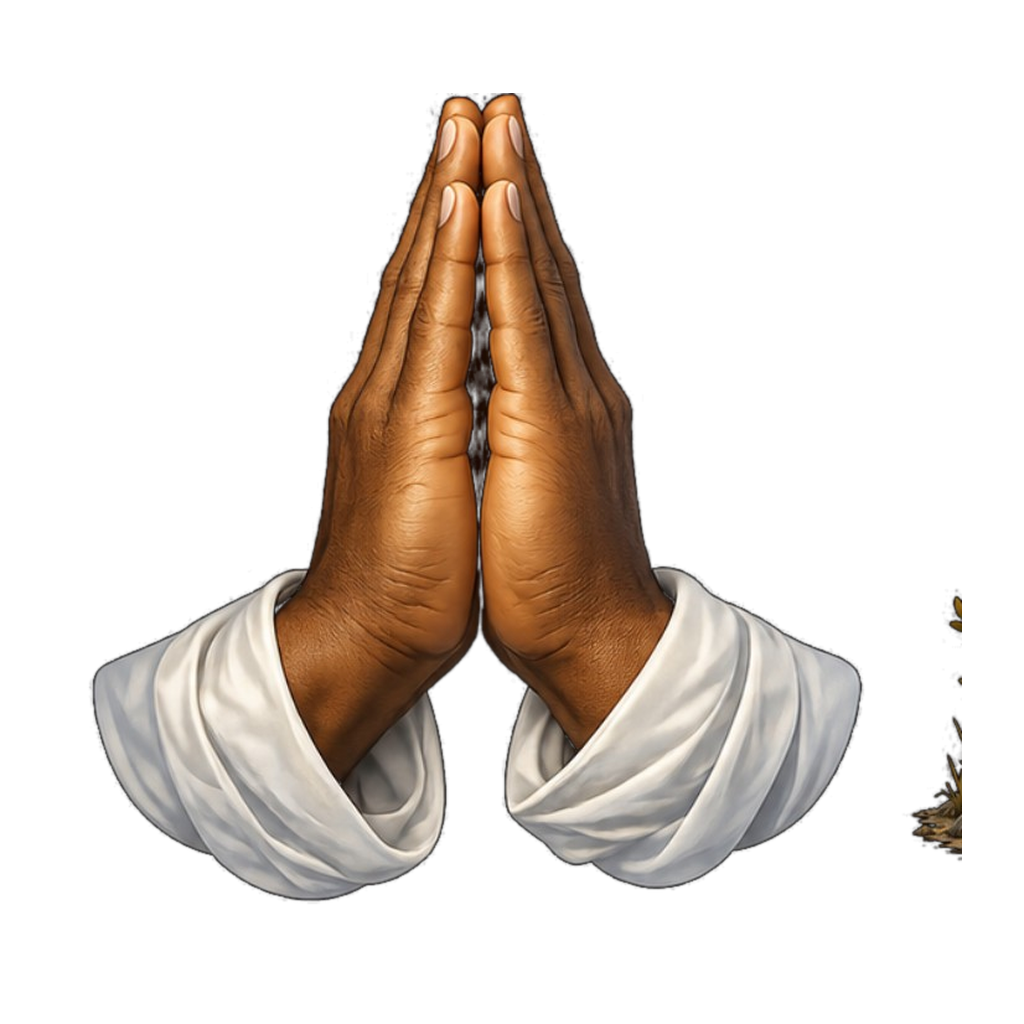
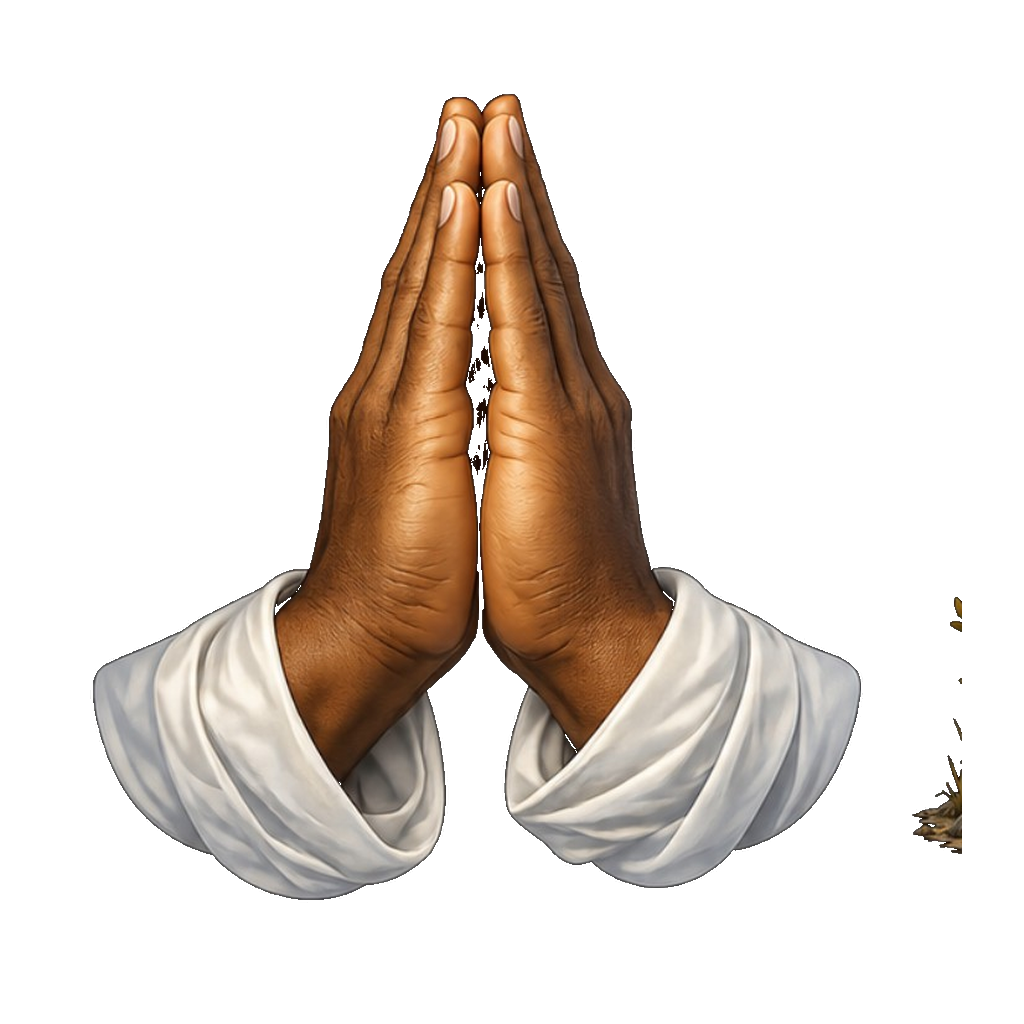
Add files via upload

diff --git a/app.js b/app.js
@@ -1444,6 +1444,7 @@ function openMoreMenu(ev){
       '<button type="button" onclick="closeMoreMenu(); openNeverSentStatsMenu()">📭 Nunca enviados</button>' +
       '<button type="button" onclick="closeMoreMenu(); openSentVersesList()">📤 Enviados</button>' +
       '<button type="button" onclick="closeMoreMenu(); openRecentHistory()">🕘 Recientes</button>' +
+      '<button type="button" onclick="closeMoreMenu(); openChristianIconsV242()">✝️ Iconos cristianos</button>' +
       '<button type="button" onclick="closeMoreMenu(); exportCurrentHTML()">🌐 Exportar lectura</button>' +
       '<button type="button" onclick="closeMoreMenu(); openAppCredits()"><img src="icon-192.png" alt="" style="width:20px;height:20px;border-radius:6px;vertical-align:-4px;margin-right:4px"> App / Versión</button>';
 
@@ -11854,3 +11855,40 @@ window.__renderTitlesBeforeV3171 = window.renderTitles || (typeof renderTitles!=
     }catch(_e){}
   }, true);
 })();
+
+/* V2 LAB 242 · Galería de iconos cristianos */
+const CHRISTIAN_ICONS_V242 = [
+  {name:'Alabanza',src:'cat-alabanza.png',meaning:'Las manos elevadas expresan adoración, entrega y reconocimiento de la grandeza de Dios.'},
+  {name:'Amor',src:'cat-amor.png',meaning:'El corazón con la cruz etíope representa el amor de Dios revelado en Cristo y el llamado a amar al prójimo.'},
+  {name:'Salvación',src:'cat-salvacion.png',meaning:'La cruz etíope recuerda la victoria de Jesucristo, su sacrificio y la esperanza de salvación.'},
+  {name:'Fortaleza',src:'cat-fortaleza.png',meaning:'La roca representa firmeza, refugio y la fuerza que procede de Dios en medio de las pruebas.'},
+  {name:'Oración',src:'cat-oracion.png',meaning:'Las manos unidas representan comunión con Dios, confianza, arrepentimiento e intercesión.'},
+  {name:'Gratitud',src:'cat-gratitud.png',meaning:'Las manos abiertas simbolizan un corazón agradecido que recibe los dones de Dios con humildad.'},
+  {name:'Misericordia',src:'cat-misericordia.png',meaning:'Las manos abiertas expresan compasión, servicio y disposición para dar y recibir misericordia.'},
+  {name:'Esperanza',src:'cat-esperanza.png',meaning:'Representa la confianza perseverante en las promesas de Dios y en la vida que Él prepara.'},
+  {name:'Espíritu Santo',src:'cat-espiritu-santo.png',meaning:'Recuerda la presencia, guía, consuelo y obra santificadora del Espíritu Santo.'},
+  {name:'Sabiduría',src:'cat-sabiduria.png',meaning:'Representa la sabiduría que viene de Dios y orienta la vida conforme a su voluntad.'},
+  {name:'Reino',src:'cat-reino.png',meaning:'La corona proclama el reinado de Dios y la soberanía de Cristo sobre toda la creación.'},
+  {name:'Descanso',src:'cat-descanso.png',meaning:'Evoca la paz de descansar en la fidelidad, la palabra y las promesas de Dios.'},
+  {name:'Juicio',src:'cat-juicio.png',meaning:'Representa la justicia perfecta de Dios, que juzga con verdad, santidad y misericordia.'},
+  {name:'Segunda venida',src:'cat-segunda-venida.png',meaning:'Expresa la esperanza cristiana en el regreso glorioso de Jesucristo.'},
+  {name:'Vida eterna',src:'cat-vida-eterna.png',meaning:'Representa la promesa de resurrección, comunión eterna con Dios y la Nueva Jerusalén.'}
+];
+function closeChristianIconsV242(){const el=document.getElementById('iconGalleryOverlayV242');if(el)el.remove();}
+function openChristianIconsV242(){
+  closeChristianIconsV242();
+  const overlay=document.createElement('div');
+  overlay.id='iconGalleryOverlayV242';overlay.className='icon-gallery-overlay-v242';
+  overlay.onclick=e=>{if(e.target===overlay)closeChristianIconsV242();};
+  const cards=CHRISTIAN_ICONS_V242.map((it,i)=>'<button class="icon-gallery-item-v242" type="button" onclick="openChristianIconDetailV242('+i+')"><img src="'+it.src+'?v=242" alt=""><span>'+escapeHtml(it.name)+'</span></button>').join('');
+  overlay.innerHTML='<div class="icon-gallery-shell-v242" id="iconGalleryShellV242"><div class="icon-gallery-head-v242"><button class="icon-gallery-close-v242" type="button" onclick="closeChristianIconsV242()">← Volver</button><h2>Iconos cristianos</h2><span style="width:76px"></span></div><div class="icon-gallery-intro-v242">Colección oficial de iconos de la aplicación. Pulse cualquiera para verlo en grande y conocer su significado.</div><div class="icon-gallery-grid-v242">'+cards+'</div></div>';
+  document.body.appendChild(overlay);
+}
+function openChristianIconDetailV242(index){
+  const it=CHRISTIAN_ICONS_V242[index],shell=document.getElementById('iconGalleryShellV242');if(!it||!shell)return;
+  const old=document.getElementById('iconDetailV242');if(old)old.remove();
+  const detail=document.createElement('div');detail.id='iconDetailV242';detail.className='icon-detail-v242';
+  detail.innerHTML='<div class="icon-detail-top-v242"><button class="icon-detail-back-v242" type="button" onclick="closeChristianIconDetailV242()">← Galería</button><button class="icon-detail-close-v242" type="button" onclick="closeChristianIconsV242()">Cerrar</button></div><img id="iconDetailImageV242" class="icon-detail-image-v242" src="'+it.src+'?v=242" alt="'+escapeHtml(it.name)+'" onclick="this.classList.toggle(\'zoomed\')"><div class="icon-detail-title-v242">'+escapeHtml(it.name)+'</div><div class="icon-detail-meaning-v242">'+escapeHtml(it.meaning)+'</div><div class="icon-detail-caption-v242">Colección oficial de iconos cristianos de la aplicación</div><div class="icon-detail-hint-v242">Pulse el icono para ampliar o reducir.</div>';
+  shell.style.position='relative';shell.appendChild(detail);
+}
+function closeChristianIconDetailV242(){const el=document.getElementById('iconDetailV242');if(el)el.remove();}

diff --git a/styles.css b/styles.css
@@ -5152,3 +5152,26 @@ body.view-switching-v2220 #homeView{
 .moment-category-icon-v2222{width:44px;height:44px;display:inline-flex;align-items:center;justify-content:center;flex:0 0 44px}
 .moment-category-icon-v2222>img{width:44px;height:44px;object-fit:contain;filter:drop-shadow(0 3px 7px rgba(86,55,10,.24))}
 .moment-tag-icon-v2222>img{width:32px!important;height:32px!important;flex-basis:32px!important}
+
+/* V2 LAB 242 · Galería de iconos cristianos */
+.icon-gallery-overlay-v242{position:fixed;inset:0;z-index:25000;background:rgba(20,24,27,.64);backdrop-filter:blur(5px);display:flex;align-items:stretch;justify-content:center;padding:14px}
+.icon-gallery-shell-v242{width:min(980px,100%);height:100%;max-height:960px;background:linear-gradient(180deg,#fffdf7 0%,#f8f0df 100%);border:1px solid rgba(125,94,39,.22);border-radius:24px;box-shadow:0 24px 70px rgba(0,0,0,.3);overflow:hidden;display:flex;flex-direction:column}
+.icon-gallery-head-v242{display:flex;align-items:center;gap:12px;padding:16px 18px;border-bottom:1px solid rgba(125,94,39,.15);background:rgba(255,255,255,.8)}
+.icon-gallery-head-v242 h2{margin:0;flex:1;text-align:center;font-size:clamp(20px,4vw,28px);color:#4b3824}
+.icon-gallery-close-v242{border:0;background:#efe4cf;border-radius:14px;padding:10px 14px;font-weight:800;color:#4b3824;font-size:16px}
+.icon-gallery-intro-v242{text-align:center;padding:14px 18px 4px;color:#725c42;font-size:14px;line-height:1.45}
+.icon-gallery-grid-v242{padding:16px;overflow:auto;display:grid;grid-template-columns:repeat(auto-fit,minmax(130px,1fr));gap:14px}
+.icon-gallery-item-v242{border:1px solid rgba(129,96,45,.16);background:rgba(255,255,255,.78);border-radius:20px;padding:14px 10px 12px;min-height:154px;box-shadow:0 6px 18px rgba(91,66,31,.08);display:flex;flex-direction:column;align-items:center;justify-content:center;gap:9px;color:#493827;font-weight:800;font-size:15px;transition:transform .16s ease,box-shadow .16s ease}
+.icon-gallery-item-v242:active{transform:scale(.97)}
+.icon-gallery-item-v242 img{width:92px;height:92px;object-fit:contain;display:block}
+.icon-detail-v242{position:absolute;inset:0;background:linear-gradient(180deg,#fffdf8,#f5ead6);display:flex;flex-direction:column;align-items:center;padding:18px;overflow:auto;animation:iconDetailInV242 .18s ease}
+@keyframes iconDetailInV242{from{opacity:0;transform:scale(.975)}to{opacity:1;transform:scale(1)}}
+.icon-detail-top-v242{width:100%;display:flex;align-items:center;justify-content:space-between;gap:10px}
+.icon-detail-back-v242,.icon-detail-close-v242{border:0;background:#efe4cf;border-radius:14px;padding:10px 14px;font-weight:800;color:#4b3824;font-size:15px}
+.icon-detail-image-v242{width:min(330px,72vw);height:min(330px,72vw);object-fit:contain;margin:20px 0 8px;filter:drop-shadow(0 12px 18px rgba(79,48,20,.13));transform-origin:center;transition:transform .18s ease}
+.icon-detail-image-v242.zoomed{transform:scale(1.35)}
+.icon-detail-title-v242{font-size:clamp(27px,7vw,40px);font-weight:900;color:#493522;text-align:center;margin:4px 0 10px}
+.icon-detail-meaning-v242{max-width:680px;text-align:center;color:#6d573d;line-height:1.55;font-size:16px;background:rgba(255,255,255,.7);border:1px solid rgba(130,96,44,.14);border-radius:18px;padding:14px 16px}
+.icon-detail-caption-v242{margin-top:16px;color:#987a50;font-size:13px;text-align:center}
+.icon-detail-hint-v242{margin-top:8px;color:#8a704e;font-size:12px}
+@media(max-width:520px){.icon-gallery-overlay-v242{padding:0}.icon-gallery-shell-v242{border-radius:0;max-height:none}.icon-gallery-grid-v242{grid-template-columns:repeat(2,minmax(0,1fr));gap:10px;padding:12px}.icon-gallery-item-v242{min-height:145px}.icon-gallery-item-v242 img{width:86px;height:86px}}